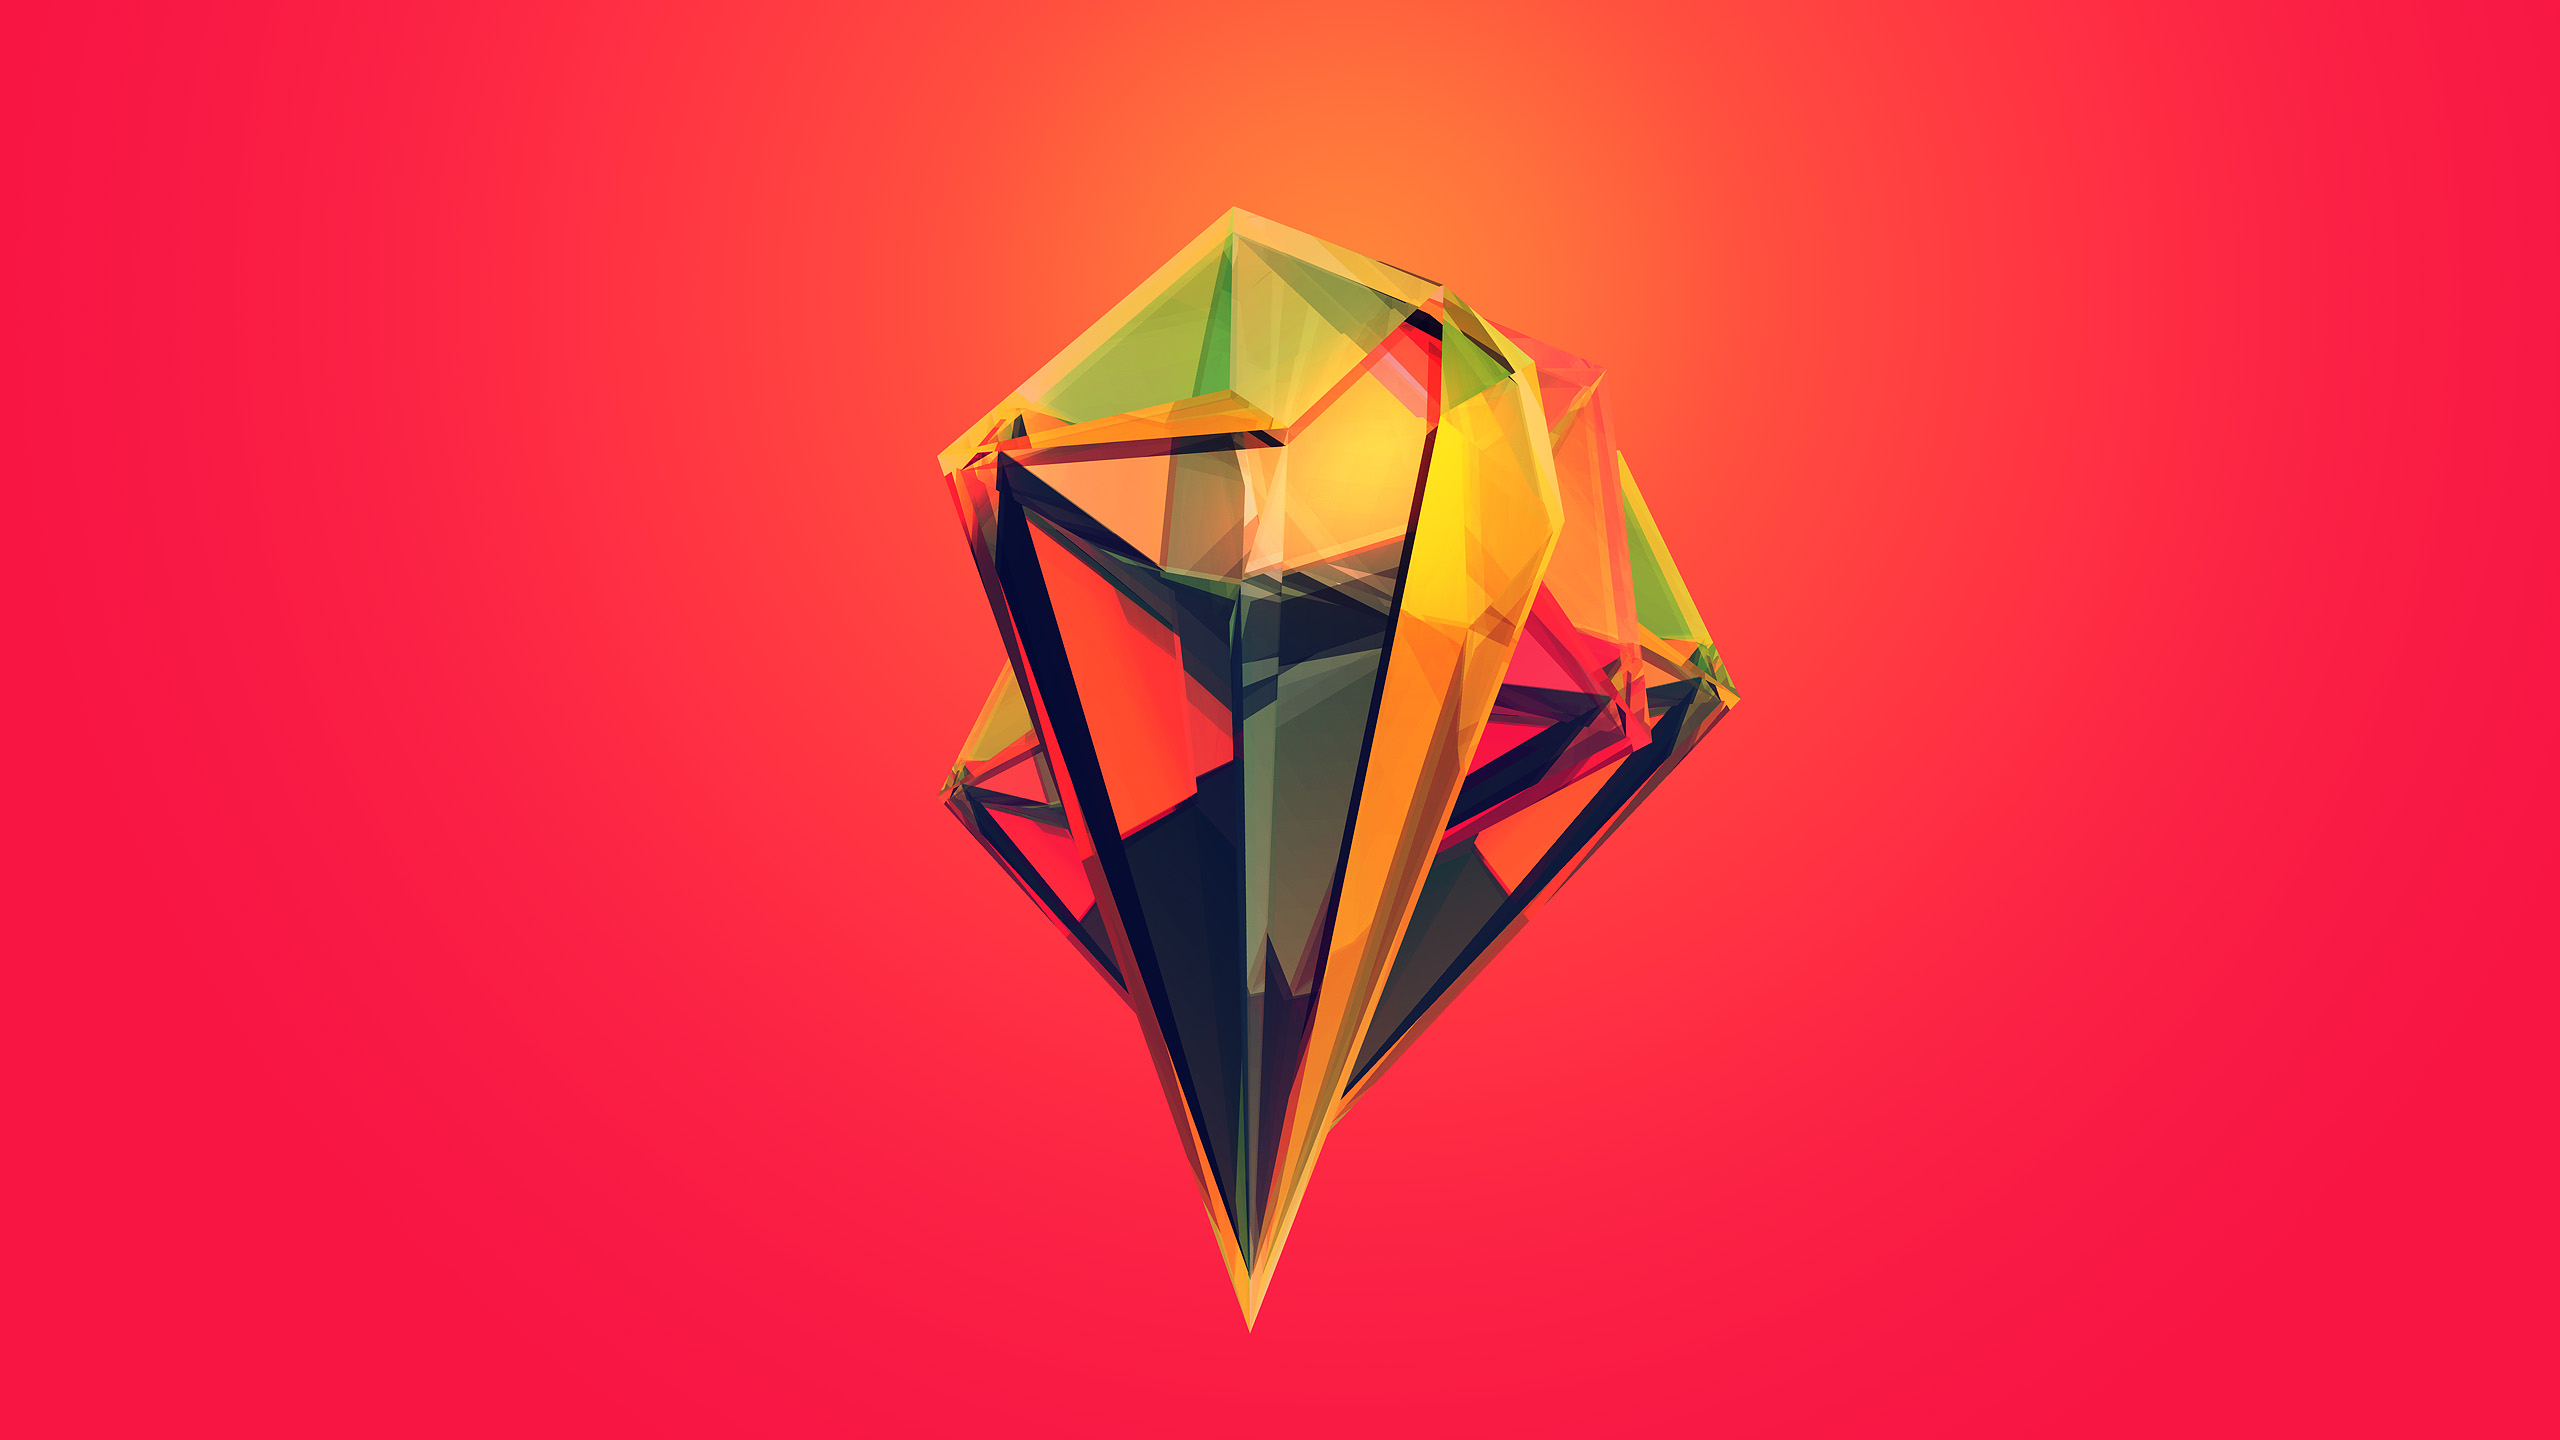
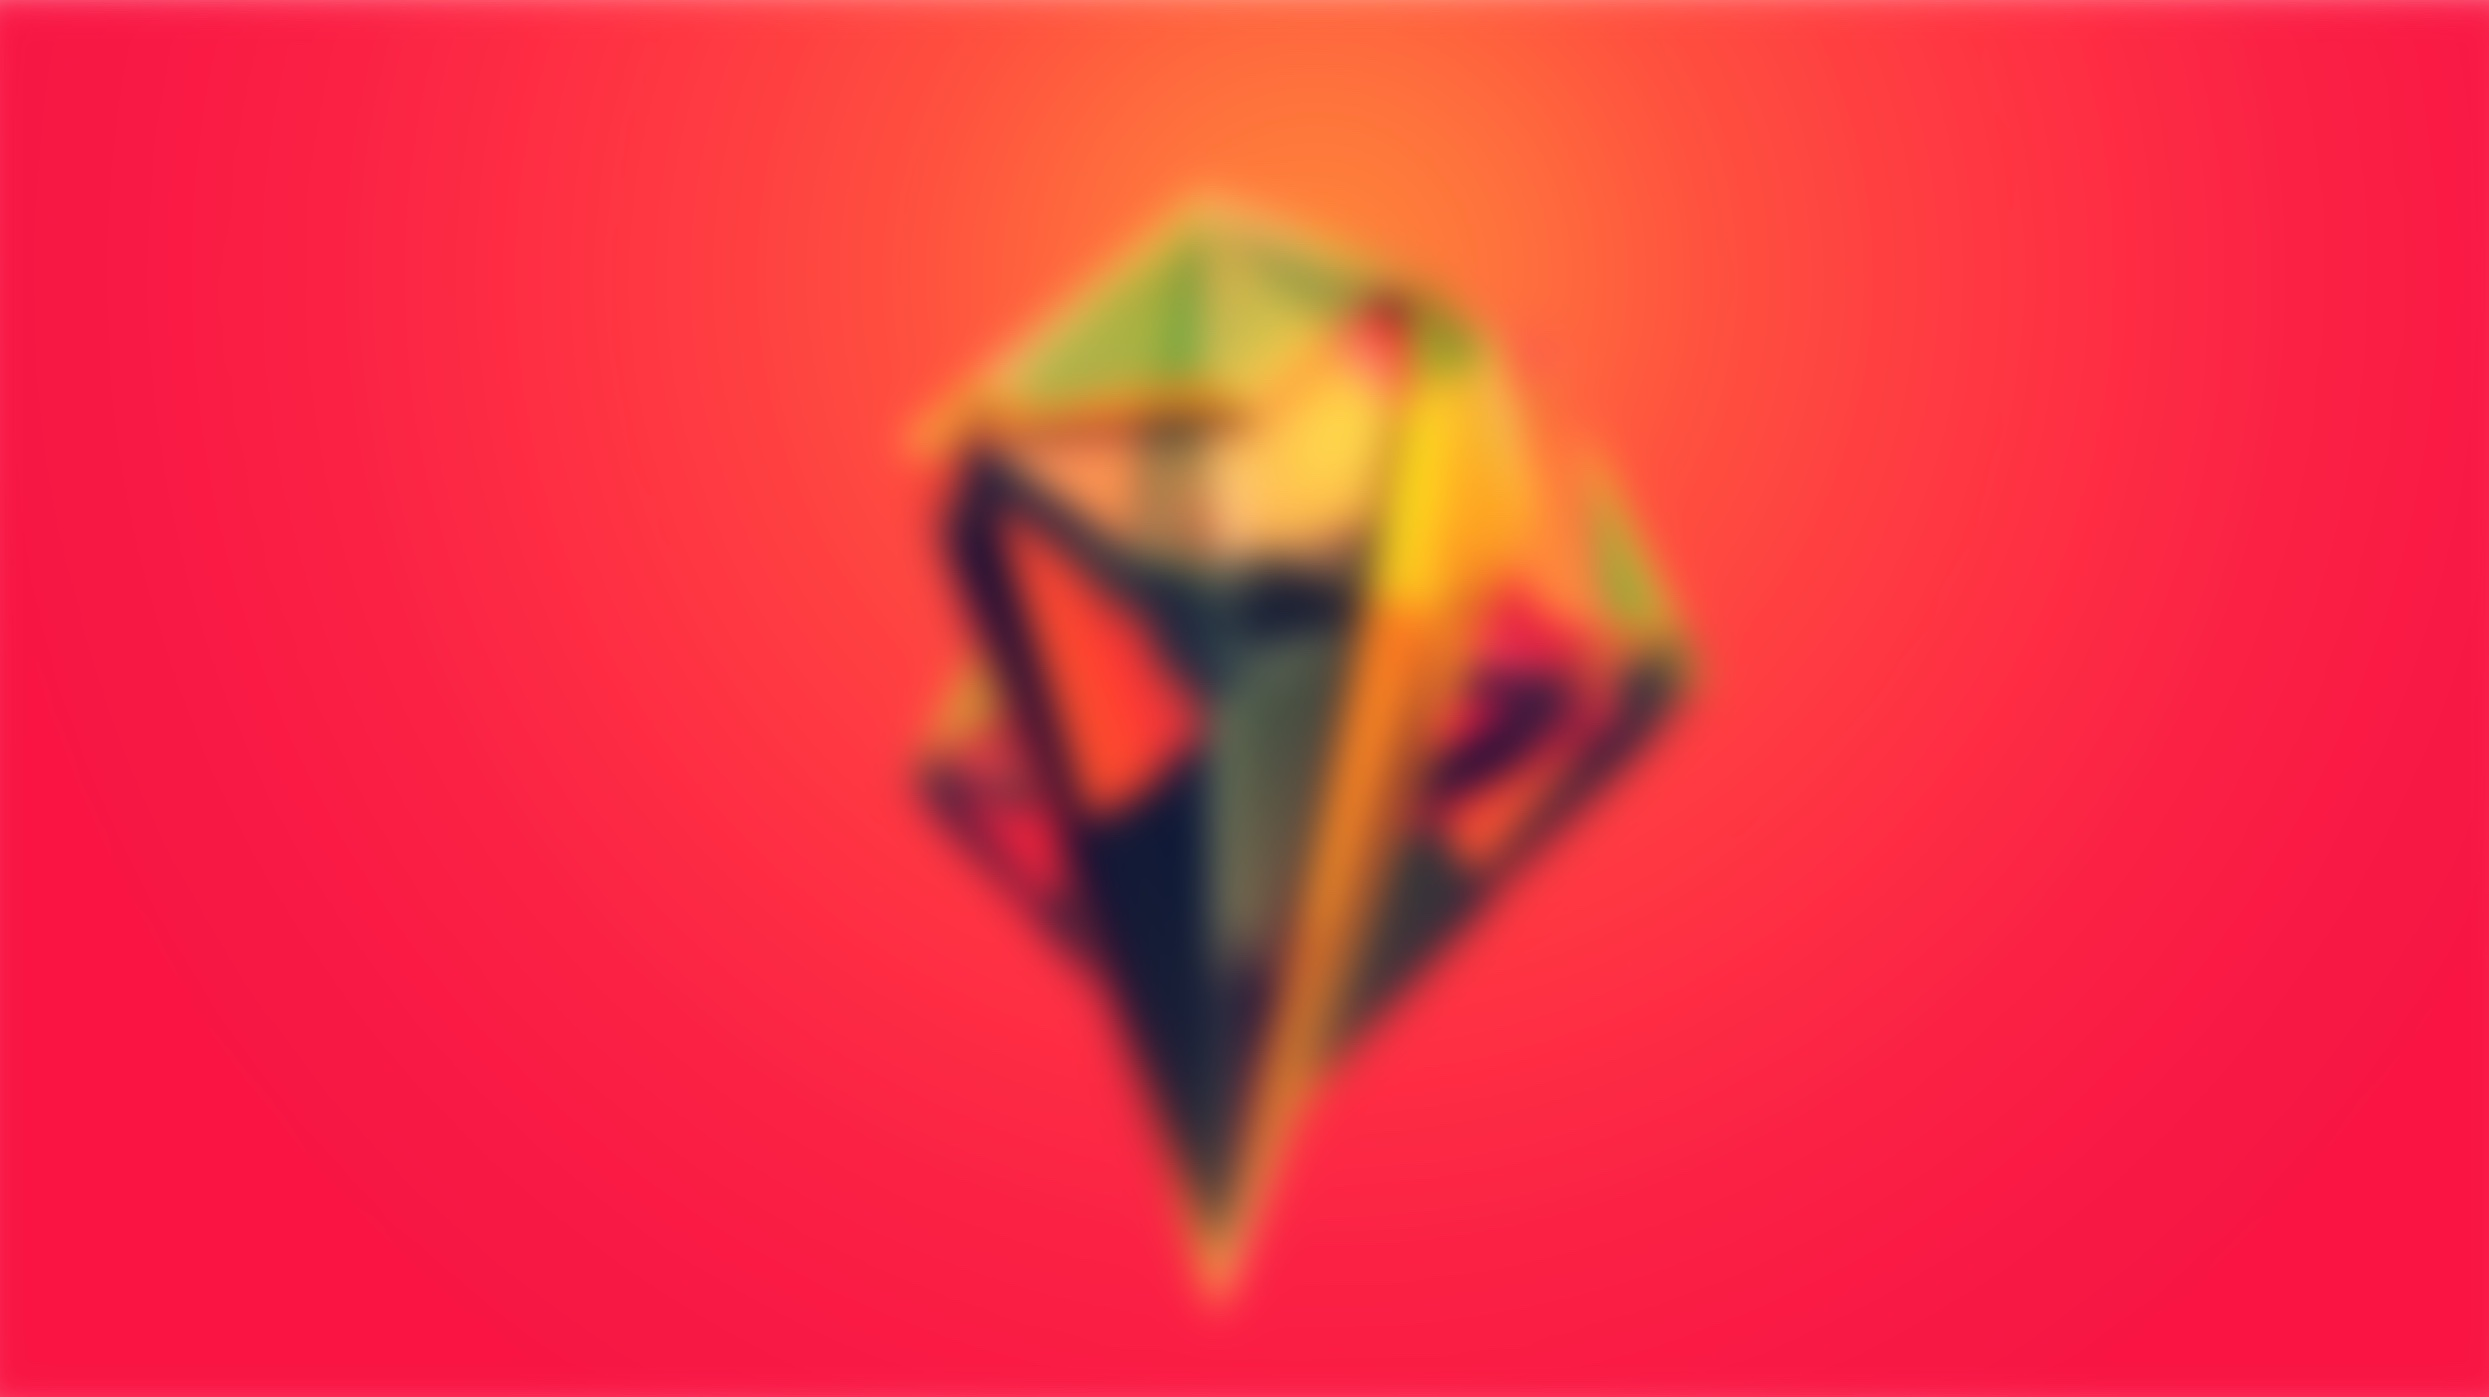
edits

Changed region(s): [[0.3403, 0.1231, 0.7115, 0.9542], [0.0, 0.0, 1.0, 0.0308]]

diff --git a/css/layout.css b/css/layout.css
@@ -38,8 +38,6 @@ header {
 	-webkit-background-size: cover !important;
    text-align: center;
    overflow: hidden;
-   filter: blur(8px);
-   -webkit-filter: blur(8px);
 }
 
 /* vertically center banner section */
